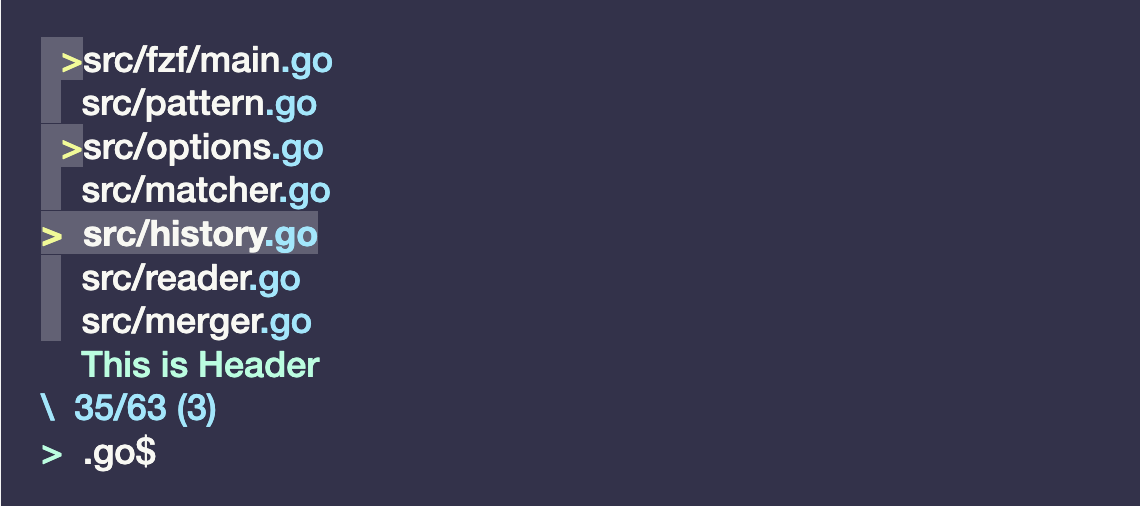
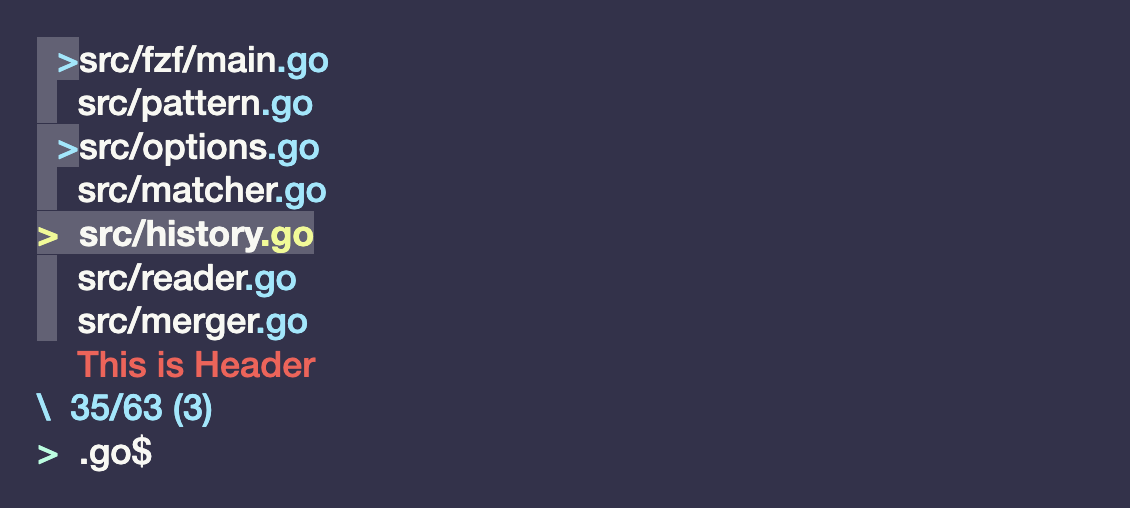
docs: Update light theme yellow color and fzf screenshots
Change light theme yellow from #B08800 to #FF841F for better
visibility and contrast. Update both dark and light fzf screenshot
images to reflect the latest theme appearance.

Changed region(s): [[0.031, 0.0889, 0.3097, 0.7708], [0.031, 0.7708, 0.1858, 0.8597], [0.031, 0.8597, 0.1549, 0.9486]]

diff --git a/README.md b/README.md
@@ -27,7 +27,7 @@ Rain Theme brings the tranquil atmosphere of rainfall to your development enviro
 | Variant   | Background | Foreground | Blue      | Green     | Red       | Yellow    |
 | --------- | ---------- | ---------- | --------- | --------- | --------- | --------- |
 | **Dark**  | `#32324B`  | `#F8F8F2`  | `#8BE9FD` | `#A8FFDE` | `#FF5555` | `#F1FA8C` |
-| **Light** | `#FAFBFC`  | `#1F2328`  | `#0366D6` | `#28A745` | `#D73A49` | `#B08800` |
+| **Light** | `#FAFBFC`  | `#1F2328`  | `#0366D6` | `#28A745` | `#D73A49` | `#FF841F` |
 
 ## 📸 Screenshots
 
